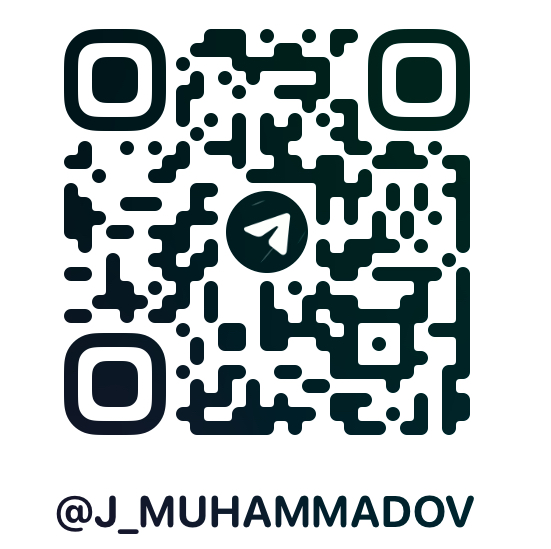
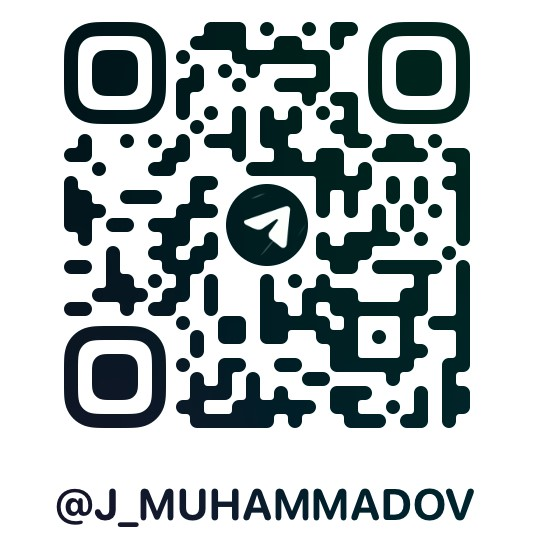
Main

Changed region(s): [[0.0896, 0.03, 0.8955, 0.809], [0.0896, 0.8989, 0.8955, 0.9888], [0.0896, 0.3596, 0.1194, 0.4195]]

diff --git a/src/components/hero-animation/index.jsx b/src/components/hero-animation/index.jsx
@@ -3,6 +3,7 @@ import { FaArrowRightLong, FaGithub, FaLinkedin, FaTelegram, FaXTwitter } from '
 import { GrLocation } from 'react-icons/gr';
 import { Typing } from '../typing';
 import { SiGmail } from 'react-icons/si';
+import { EMAIL, GITHUB, LINKEDIN, X } from '../../../data/index'
 
 export const H1Animation = () => {
     const textVariants = {
@@ -78,7 +79,7 @@ export const ButtonAnimation = () => {
             transition={{ duration: 1.5, ease: 'anticipate' }}
         >
             <button className="flex items-center gap-2 border border-black text-xs sm:text-sm lg:text-base px-3 py-1.5 lg:py-2 rounded-full bg-inherit text-black transition hover:bg-black hover:text-white">
-                <a href="https://www.linkedin.com/in/jurabek-muhammadov-159093275" target="_blank">More about Me</a>
+                <a href={LINKEDIN} target="_blank">More about Me</a>
                 <FaArrowRightLong />
             </button>
         </motion.div>
@@ -155,7 +156,7 @@ export const SocialsAnimation = () => {
                 variants={variant1}
                 transition={{ duration: 1.2, ease: 'backIn' }}
             >
-                <a href="mailto:jorabekmuhammadov7@gmail.com" target="_blank" className="flex items-center gap-2 lg:gap-3 transition hover:text-black hover:underline">
+                <a href={`mailto:${EMAIL}`} target="_blank" className="flex items-center gap-2 lg:gap-3 transition hover:text-black hover:underline">
                     <SiGmail size={25} className="h-6 w-6 sm:h-7 sm:w-7" />
                     Email
                 </a>
@@ -166,7 +167,7 @@ export const SocialsAnimation = () => {
                 variants={variant2}
                 transition={{ duration: 1.3, ease: 'backIn' }}
             >
-                <a href="https://t.me/j-muhammadov" target="_blank" className="flex items-center gap-2 lg:gap-3 transition hover:text-black hover:underline">
+                <a href="https://t.me/j_muhammadov" target="_blank" className="flex items-center gap-2 lg:gap-3 transition hover:text-black hover:underline">
                     <FaTelegram size={25} className="h-6 w-6 sm:h-7 sm:w-7" />
                     Telegram
                 </a>
@@ -177,7 +178,7 @@ export const SocialsAnimation = () => {
                 variants={variant3}
                 transition={{ duration: 1.4, ease: 'backIn' }}
             >
-                <a href="https://github.com/jurabekmuhammadov" target="_blank" className="flex items-center gap-2 lg:gap-3 transition hover:text-black hover:underline">
+                <a href={GITHUB} target="_blank" className="flex items-center gap-2 lg:gap-3 transition hover:text-black hover:underline">
                     <FaGithub size={25} className="h-6 w-6 sm:h-7 sm:w-7" />
                     Github
                 </a>
@@ -188,7 +189,7 @@ export const SocialsAnimation = () => {
                 variants={variant4}
                 transition={{ duration: 1.5, ease: 'backIn' }}
             >
-                <a href="https://www.linkedin.com/in/jurabek-muhammadov-159093275" target="_blank" className="flex items-center gap-2 lg:gap-3 transition hover:text-black hover:underline">
+                <a href={LINKEDIN} target="_blank" className="flex items-center gap-2 lg:gap-3 transition hover:text-black hover:underline">
                     <FaLinkedin size={25} className="h-6 w-6 sm:h-7 sm:w-7" />
                     Linkedin
                 </a>
@@ -199,7 +200,7 @@ export const SocialsAnimation = () => {
                 variants={variant5}
                 transition={{ duration: 1.6, ease: 'backIn' }}
             >
-                <a href="https://www.linkedin.com/in/jurabek-muhammadov-159093275" target="_blank" className="flex items-center gap-2 lg:gap-3 transition hover:text-black hover:underline">
+                <a href={X} target="_blank" className="flex items-center gap-2 lg:gap-3 transition hover:text-black hover:underline">
                     <FaXTwitter size={25} className="h-6 w-6 sm:h-7 sm:w-7" />
                     X
                 </a>

diff --git a/src/layout/header/index.jsx b/src/layout/header/index.jsx
@@ -2,7 +2,7 @@ import { useState } from "react"
 import { BsDownload, BsSend } from "react-icons/bs"
 import { CgClose } from "react-icons/cg"
 import { MdOutlineMenuOpen } from "react-icons/md"
-import { navItems } from "../../../data"
+import { navItems, TELEGRAM } from "../../../data"
 import { motion } from 'framer-motion';
 
 const Header = () => {
@@ -42,7 +42,7 @@ const Header = () => {
 
           <div className="flex items-center gap-3 sm:gap-5">
             <div className="flex items-center gap-2 text-xs sm:text-sm">
-              <a href="https://t.me/notjustdev" target="_blank" className="sm:font-medium hidden min-[400px]:flex items-center gap-2 px-3 py-1.5 lg:py-2 rounded-full bg-inherit text-black transition hover:bg-black hover:text-white">
+              <a href={TELEGRAM} target="_blank" className="sm:font-medium hidden min-[400px]:flex items-center gap-2 px-3 py-1.5 lg:py-2 rounded-full bg-inherit text-black transition hover:bg-black hover:text-white">
                 Hire me
                 <BsSend className="w-4 h-4 sm:w-5 sm:h-5" />
               </a>

diff --git a/src/components/services/index.jsx b/src/components/services/index.jsx
@@ -3,11 +3,12 @@ import { FaCode, FaShopify } from "react-icons/fa6"
 import { GrOptimize } from "react-icons/gr"
 import { LuMonitorSmartphone } from "react-icons/lu"
 import { MdOutlineContentCopy, MdOutlineDesignServices } from "react-icons/md"
+import { EMAIL } from "../../../data"
 
 const Services = () => {
     const [copied, setCopied] = useState(false);
     const handleCopy = () => {
-        const text = "jorabekmuhammadov7@gmail.com";
+        const text = EMAIL;
         navigator.clipboard.writeText(text);
         setCopied(true);
     };

diff --git a/data/index.js b/data/index.js
@@ -1,3 +1,10 @@
+export const TELEGRAM = "https://t.me/j_muhammadov";
+export const EMAIL = "jorabekmuhammadov7@gmail.com";
+export const GITHUB = "https://github.com/jurabekmuhammadov";
+export const LINKEDIN = "https://www.linkedin.com/in/jurabek-muhammadov-159093275";
+export const X = "https://x.com/jm_coder";
+export const TELEPHONE = "+998990990754";
+
 export const navItems = [
     {
         name: "About",
